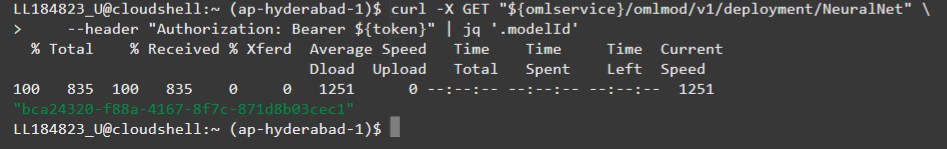
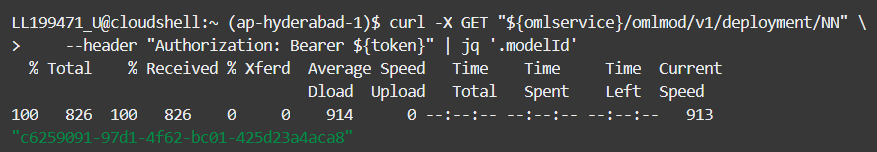
MM lab screenshot updated

diff --git a/oml-restapi-services/omls-model-monitoring/omls-model-monitoring.md b/oml-restapi-services/omls-model-monitoring/omls-model-monitoring.md
@@ -56,12 +56,12 @@ To monitor your models:
 
     ```
     <copy>
-    $ curl -X GET "<oml-cloud-service-location-url>/omlmod/v1/deployment/<URI>" \
+    $ curl -X GET "${omlservice}/omlmod/v1/deployment/<URI>" \
         --header "Authorization: Bearer ${token}" | jq '.modelId'
     </copy>
     ```
 
-    In this example, the model URI is `NeuralNet`
+    In this example, the model URI is `NN`
 
   ![Model ID from Deployment tab](images/mm-modelid.png)
 
